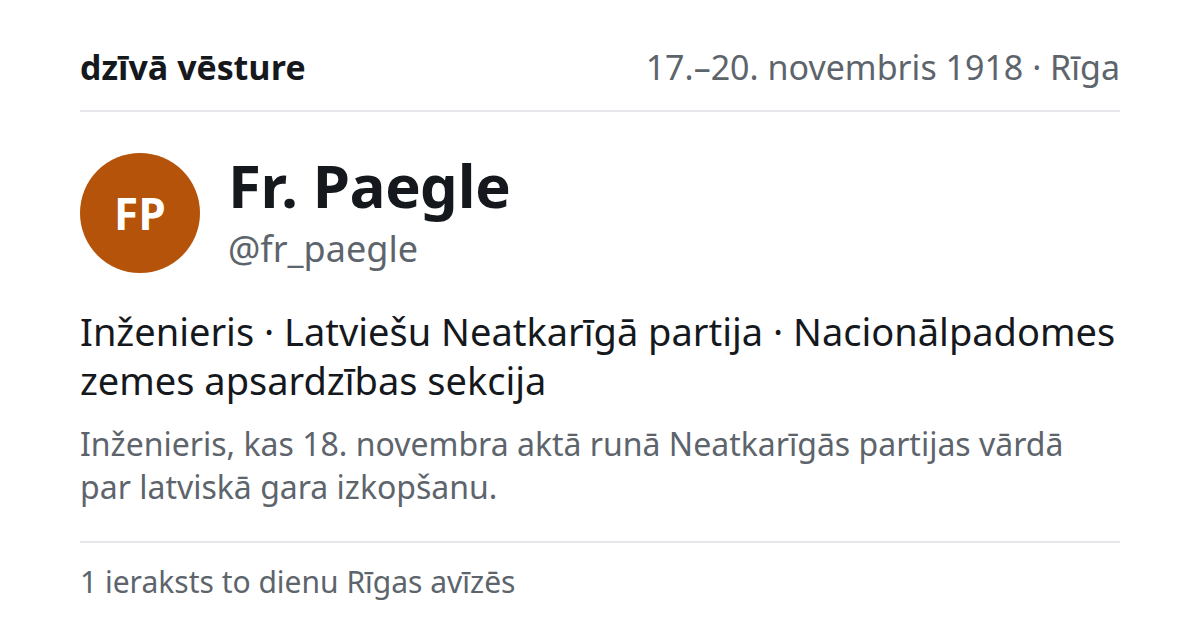
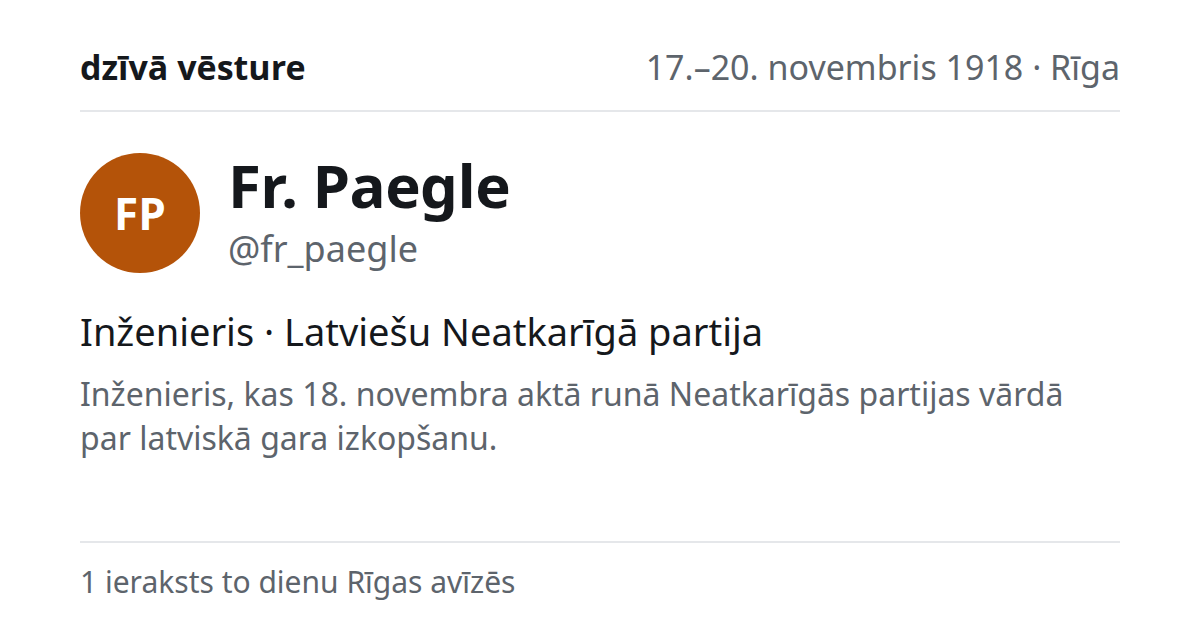
profiles: present-tense, day-independent, corpus-checked account descriptions
Why: a profile is read from four day pages now, so „vakar“ / „šodien“ in a
bio was wrong on three of them — and an X profile never says what happened
yesterday anyway. Every account what/bio/silent, the eight identities.json
bios and EMPTY_COPY are now stated as what the person or institution IS,
with absolute dates where a date is needed.

Each claim was checked against the corpus (and the 1923 volume for the
memoirists). Unsupported ones are cut, not replaced: Winnig's Kiev trip and
Kaļķu iela speech, the soldiers' council venue, Čakste „abroad“ (the one
source puts him in Zemgale), Figaro at the city theatre, the opera „sold
out“, Wilson and the blockade, Clemenceau's students, Kambala's „few weeks“,
Locke's characters and serial number, Laicens's „third“ collection and
„review“, Paegle's defence section, Scheidemann's date. Four were plainly
wrong and are corrected from the re-read posts: the Kaiser's „small lonely
house“ plea is the crown prince's, Baltijas Ziņas costs 15 kap. not 20, the
zemes sargi notice has seven signatories, Seraphim's regiment is read (60).

OG cards re-rendered for the ten profiles whose text changed. Tests and the
16-row checker green on these edits alone.

Claude-Session: https://claude.ai/code/session_015qFLD38gicN4wKX6As4ndC

Changed region(s): [[0.0617, 0.573, 0.8942, 0.7238], [0.0617, 0.754, 0.4008, 0.8143], [0.6475, 0.5127, 0.925, 0.573]]

diff --git a/src/lib/feed.ts b/src/lib/feed.ts
@@ -279,10 +279,10 @@ export function mentionsOf(handle: string, posts: Post[]): Post[] {
 // the point: a profile with nothing to show states a fact of the day.
 // tests/run.ts asserts this covers exactly the post-less accounts without `silent`.
 export const EMPTY_COPY: Record<string, string> = {
-  '@erasts_bite': 'Tajā dienā viņš runāja — Operas namā nolasīja vakardienas sēdes protokolu —, bet viņa paša vārdus neviena avīze nepierakstīja. Zināms tikai, ka viņš to darīja.',
-  '@h_j_seraphim': 'Viņa vārdi šodien ir Rigasche Zeitung — 11. turpinājums —, bet tie ir vēstule tēvam par janvāri. Par 18. novembri viņš nesaka nekā; avīze viņu iespiež.',
-  '@w_j_locke': 'Viņa romāns „Jūras zvaigzne“ šodien turpinās Baltijas Ziņās, tulkots. Pats viņš par šo dienu Rīgā neko nav teicis.',
-  '@l_laicens': 'Par viņu raksta divas avīzes — Līdums recenzē „Ieslēgtos“, Baltijas Ziņas nosauc viņu „Taurētāja“ dzejnieku vidū —, bet neviena neiespiež viņa paša vārdus.',
+  '@erasts_bite': '18. novembrī viņš runāja — Operas namā nolasīja 17. novembra sēdes protokolu —, bet viņa paša vārdus neviena avīze nepierakstīja. Zināms tikai, ka viņš to darīja.',
+  '@h_j_seraphim': 'Viņa vārdi 18. novembra Rigasche Zeitung ir 11. turpinājums, bet tie ir vēstule tēvam par janvāri. Par 18. novembri viņš nesaka nekā; avīze viņu iespiež.',
+  '@w_j_locke': 'Viņa romāns „Jūras zvaigzne“ 18. novembra Baltijas Ziņās turpinās, tulkots. Pats viņš par Rīgu neko nav teicis.',
+  '@l_laicens': 'Par viņu raksta divas avīzes — 17. novembra Līdums grāmatu galdā min „Ieslēgtos“, 18. novembra Baltijas Ziņas nosauc viņu „Taurētāja“ dzejnieku vidū —, bet neviena neiespiež viņa paša vārdus.',
 };
 
 export type BodyMarkup = {
